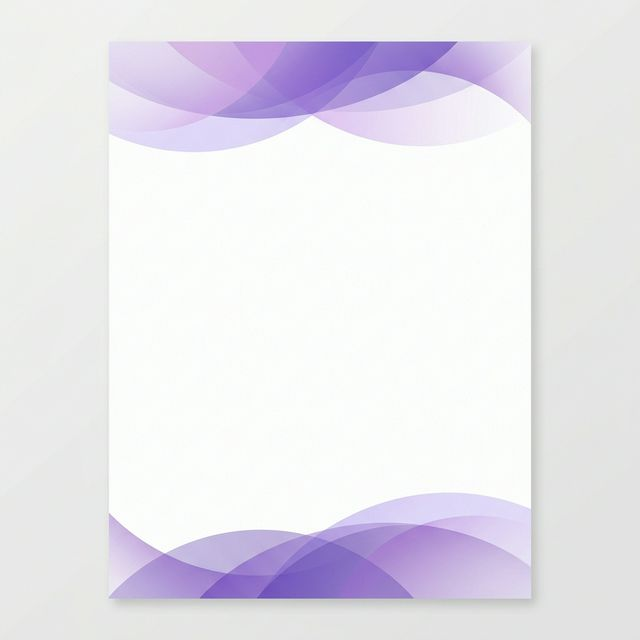
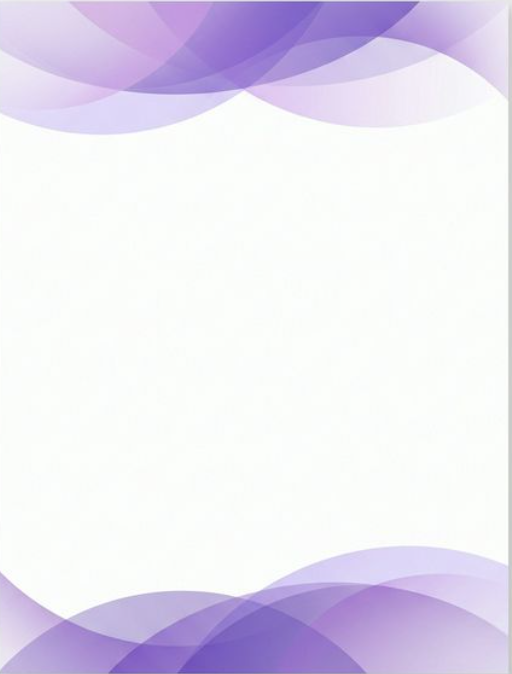
Fix: Escalar fondo de imagen al 100% e incrementar opacidad de marca de agua

diff --git a/backend/app/utils/pdf_generator.py b/backend/app/utils/pdf_generator.py
@@ -145,22 +145,23 @@ def draw_color_background(canvas, doc):
     canvas.saveState()
     width, height = doc.pagesize
     
+    # Base fill to eliminate any white gaps
+    canvas.setFillColor(BRAND_LILAC_BG)
+    canvas.rect(0, 0, width, height, stroke=0, fill=1)
+    
     # 1. Background Image (Full Page)
     bg_path = os.path.join(os.path.dirname(__file__), "..", "assets", "backgrounds", "lilac_premium.png")
     if os.path.exists(bg_path):
-        canvas.drawImage(bg_path, 0, 0, width, height, mask='auto')
-    else:
-        # Fallback if image missing
-        canvas.setFillColor(BRAND_LILAC_BG)
-        canvas.rect(0, 0, width, height, stroke=0, fill=1)
+        # We draw the background explicitly to 100% of the page size
+        canvas.drawImage(bg_path, 0, 0, width=width, height=height, mask='auto')
     
     # 2. Watermark Logo (Center)
     logo_path = os.path.join(os.path.dirname(__file__), "..", "assets", "logos", "dr_logo_watermark.png")
     if os.path.exists(logo_path):
         canvas.saveState()
         # Watermark sizing
-        w_width = 4*inch
-        w_height = 4*inch # Adjusted by aspect if needed
+        w_width = 5*inch # Larger watermark
+        w_height = 5*inch
         try:
             img_reader = ImageReader(logo_path)
             iw, ih = img_reader.getSize()
@@ -169,8 +170,10 @@ def draw_color_background(canvas, doc):
         except:
             pass
             
-        canvas.setFillAlpha(0.06) # Very subtle watermark
-        canvas.drawImage(logo_path, (width - w_width)/2, (height - w_height)/2, width=w_width, height=w_height, mask='auto', preserveAspectRatio=True)
+        canvas.setFillAlpha(0.15) # Increased from 0.06 to 0.15 for visibility
+        canvas.drawImage(logo_path, (width - w_width)/2, (height - w_height)/2, 
+                         width=w_width, height=w_height, mask='auto', 
+                         preserveAspectRatio=True)
         canvas.restoreState()
     
     canvas.restoreState()
